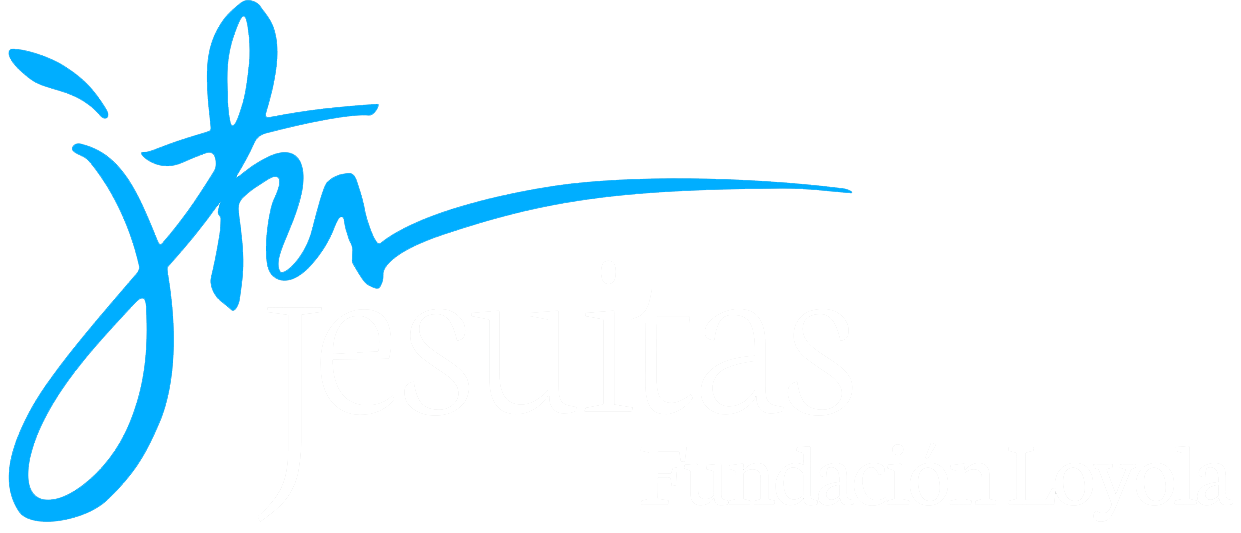
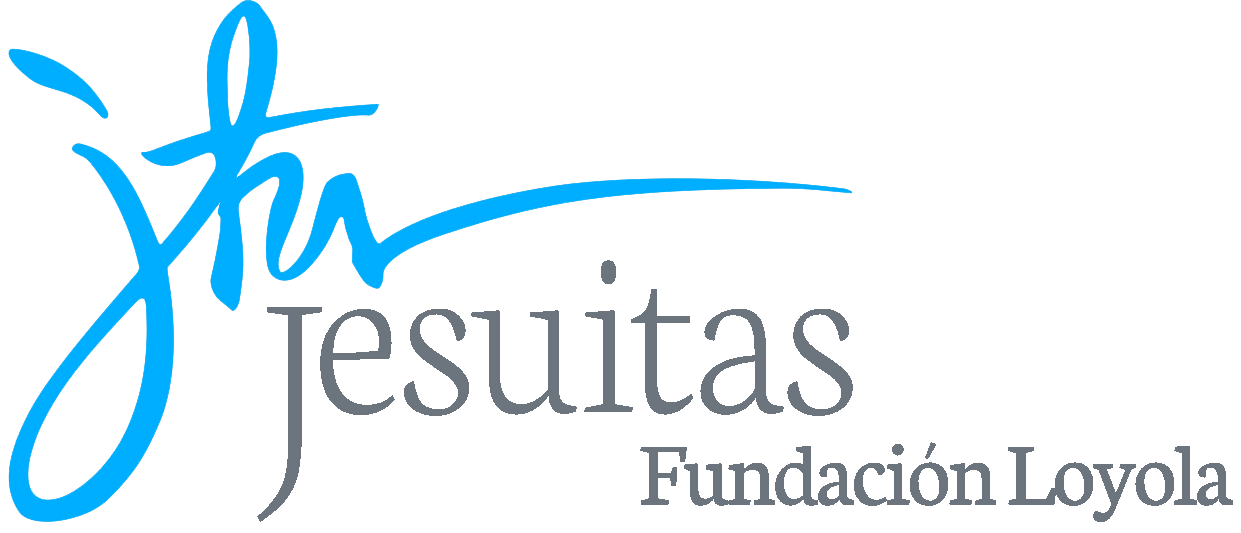
colores

Changed region(s): [[0.2143, 0.5403, 0.7043, 0.9606], [0.5205, 0.8405, 1.0, 0.9906], [0.4593, 0.4803, 0.5205, 0.5403]]

diff --git a/css/style.css b/css/style.css
@@ -108,9 +108,9 @@ body>footer{
     position: sticky;
     top: 100vh;
     height: 264px;
-    background: rgb(66,66,66);
-    background: linear-gradient(90deg, rgba(66,66,66,0.9976365546218487) 0%, rgba(204,200,200,0.68531162464986) 43%, rgba(245,245,247,1) 100%);
+    background-color: #f5f5f7;
     flex-basis: auto;
+    z-index: 10;
 }
 footer div{
     width: 100%;
@@ -118,17 +118,13 @@ footer div{
     display: flex;
     align-items: center;
     justify-content: space-between;
-    font-size: 1.5em;
+    
 }
 footer div img{
-    width: 300px;
+    width: 225px;
     height: auto;
     padding-bottom: 20px;
     padding-left: 40px;
-}
-footer div p{
-    color: #161A1D;
-    padding-right: 40px;
 }
 
 footer div ul li{
@@ -138,7 +134,7 @@ footer div ul li{
     display: inline-block
 }
 footer div ul li a {
-    color: #161A1D;
+    color: #6c757d;
     text-decoration: none;
     transition: 0.5s;
 }
@@ -158,7 +154,7 @@ footer div ul li a:hover:after{
 
 footer div #git{
     position: relative;
-    color: #161A1D;
+    color: #6c757d;
     padding-right: 40px;
 }
 footer div #git img{
@@ -191,7 +187,7 @@ footer div #git:hover img{
     footer div #git img{
         display: none;
     }
-    footer div {
-        font-size: 1em;
-    }
+   footer div #git{
+       padding-right: 0;
+   }
   }
